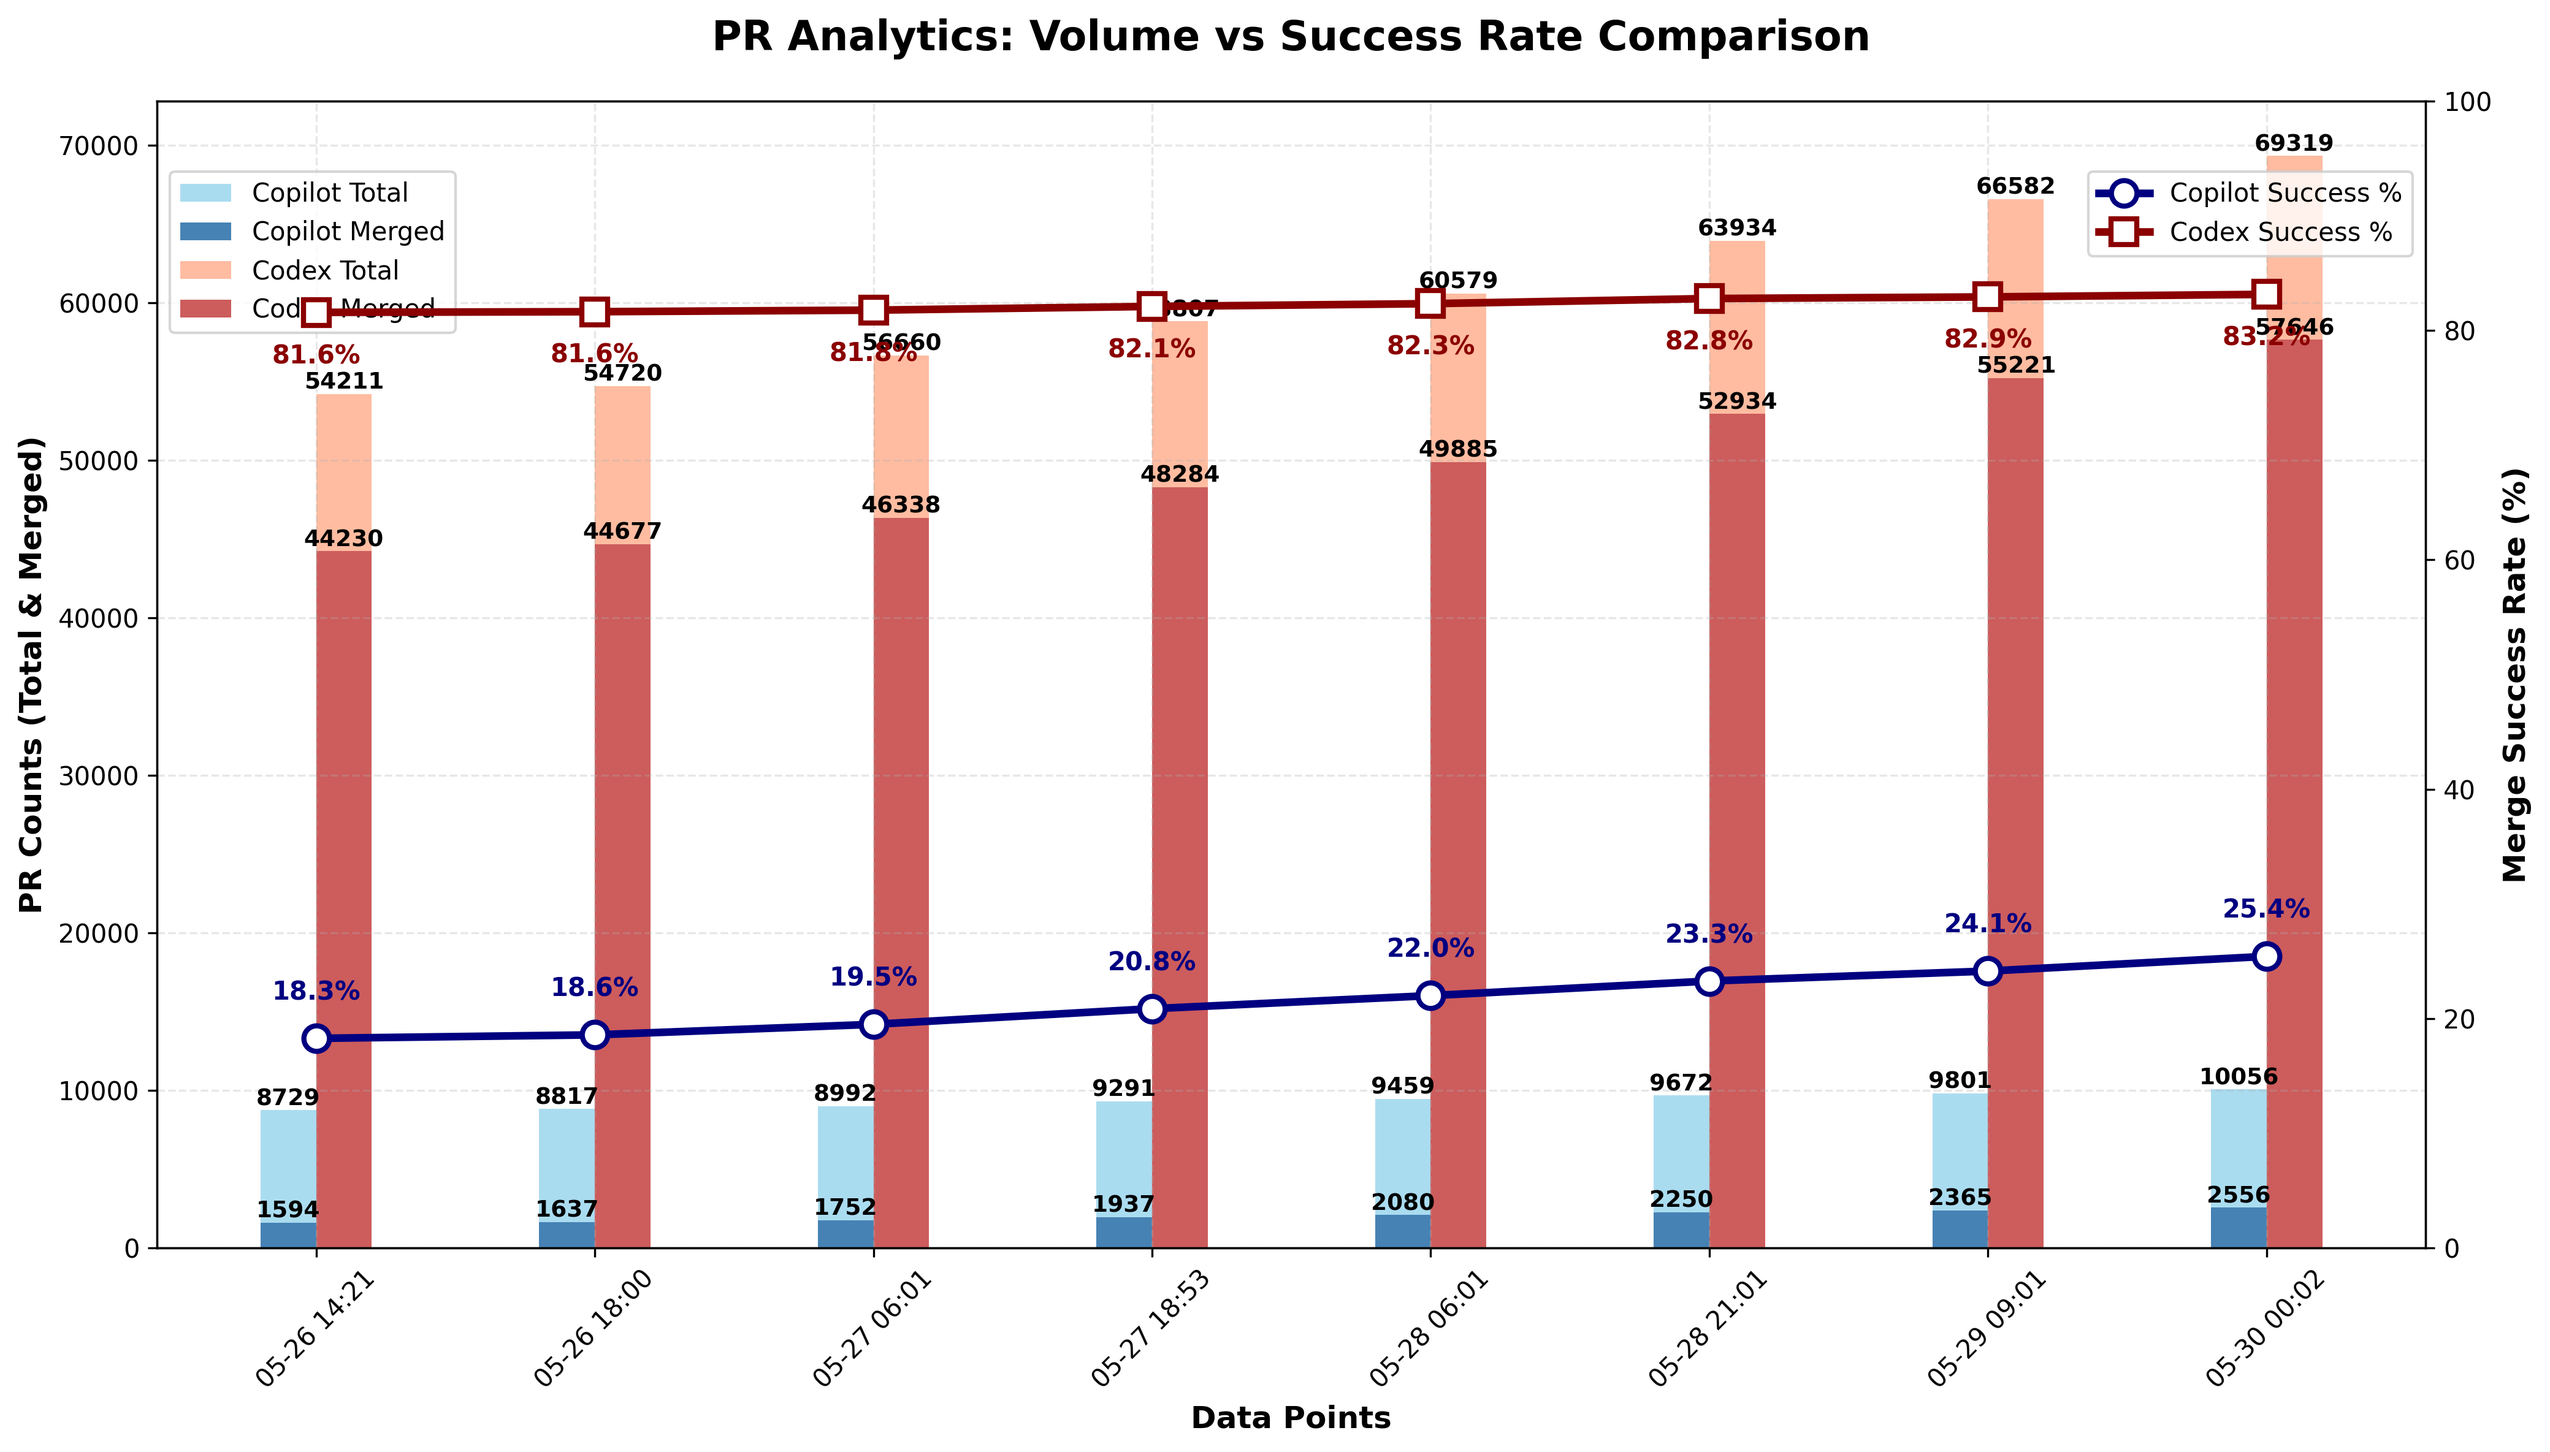
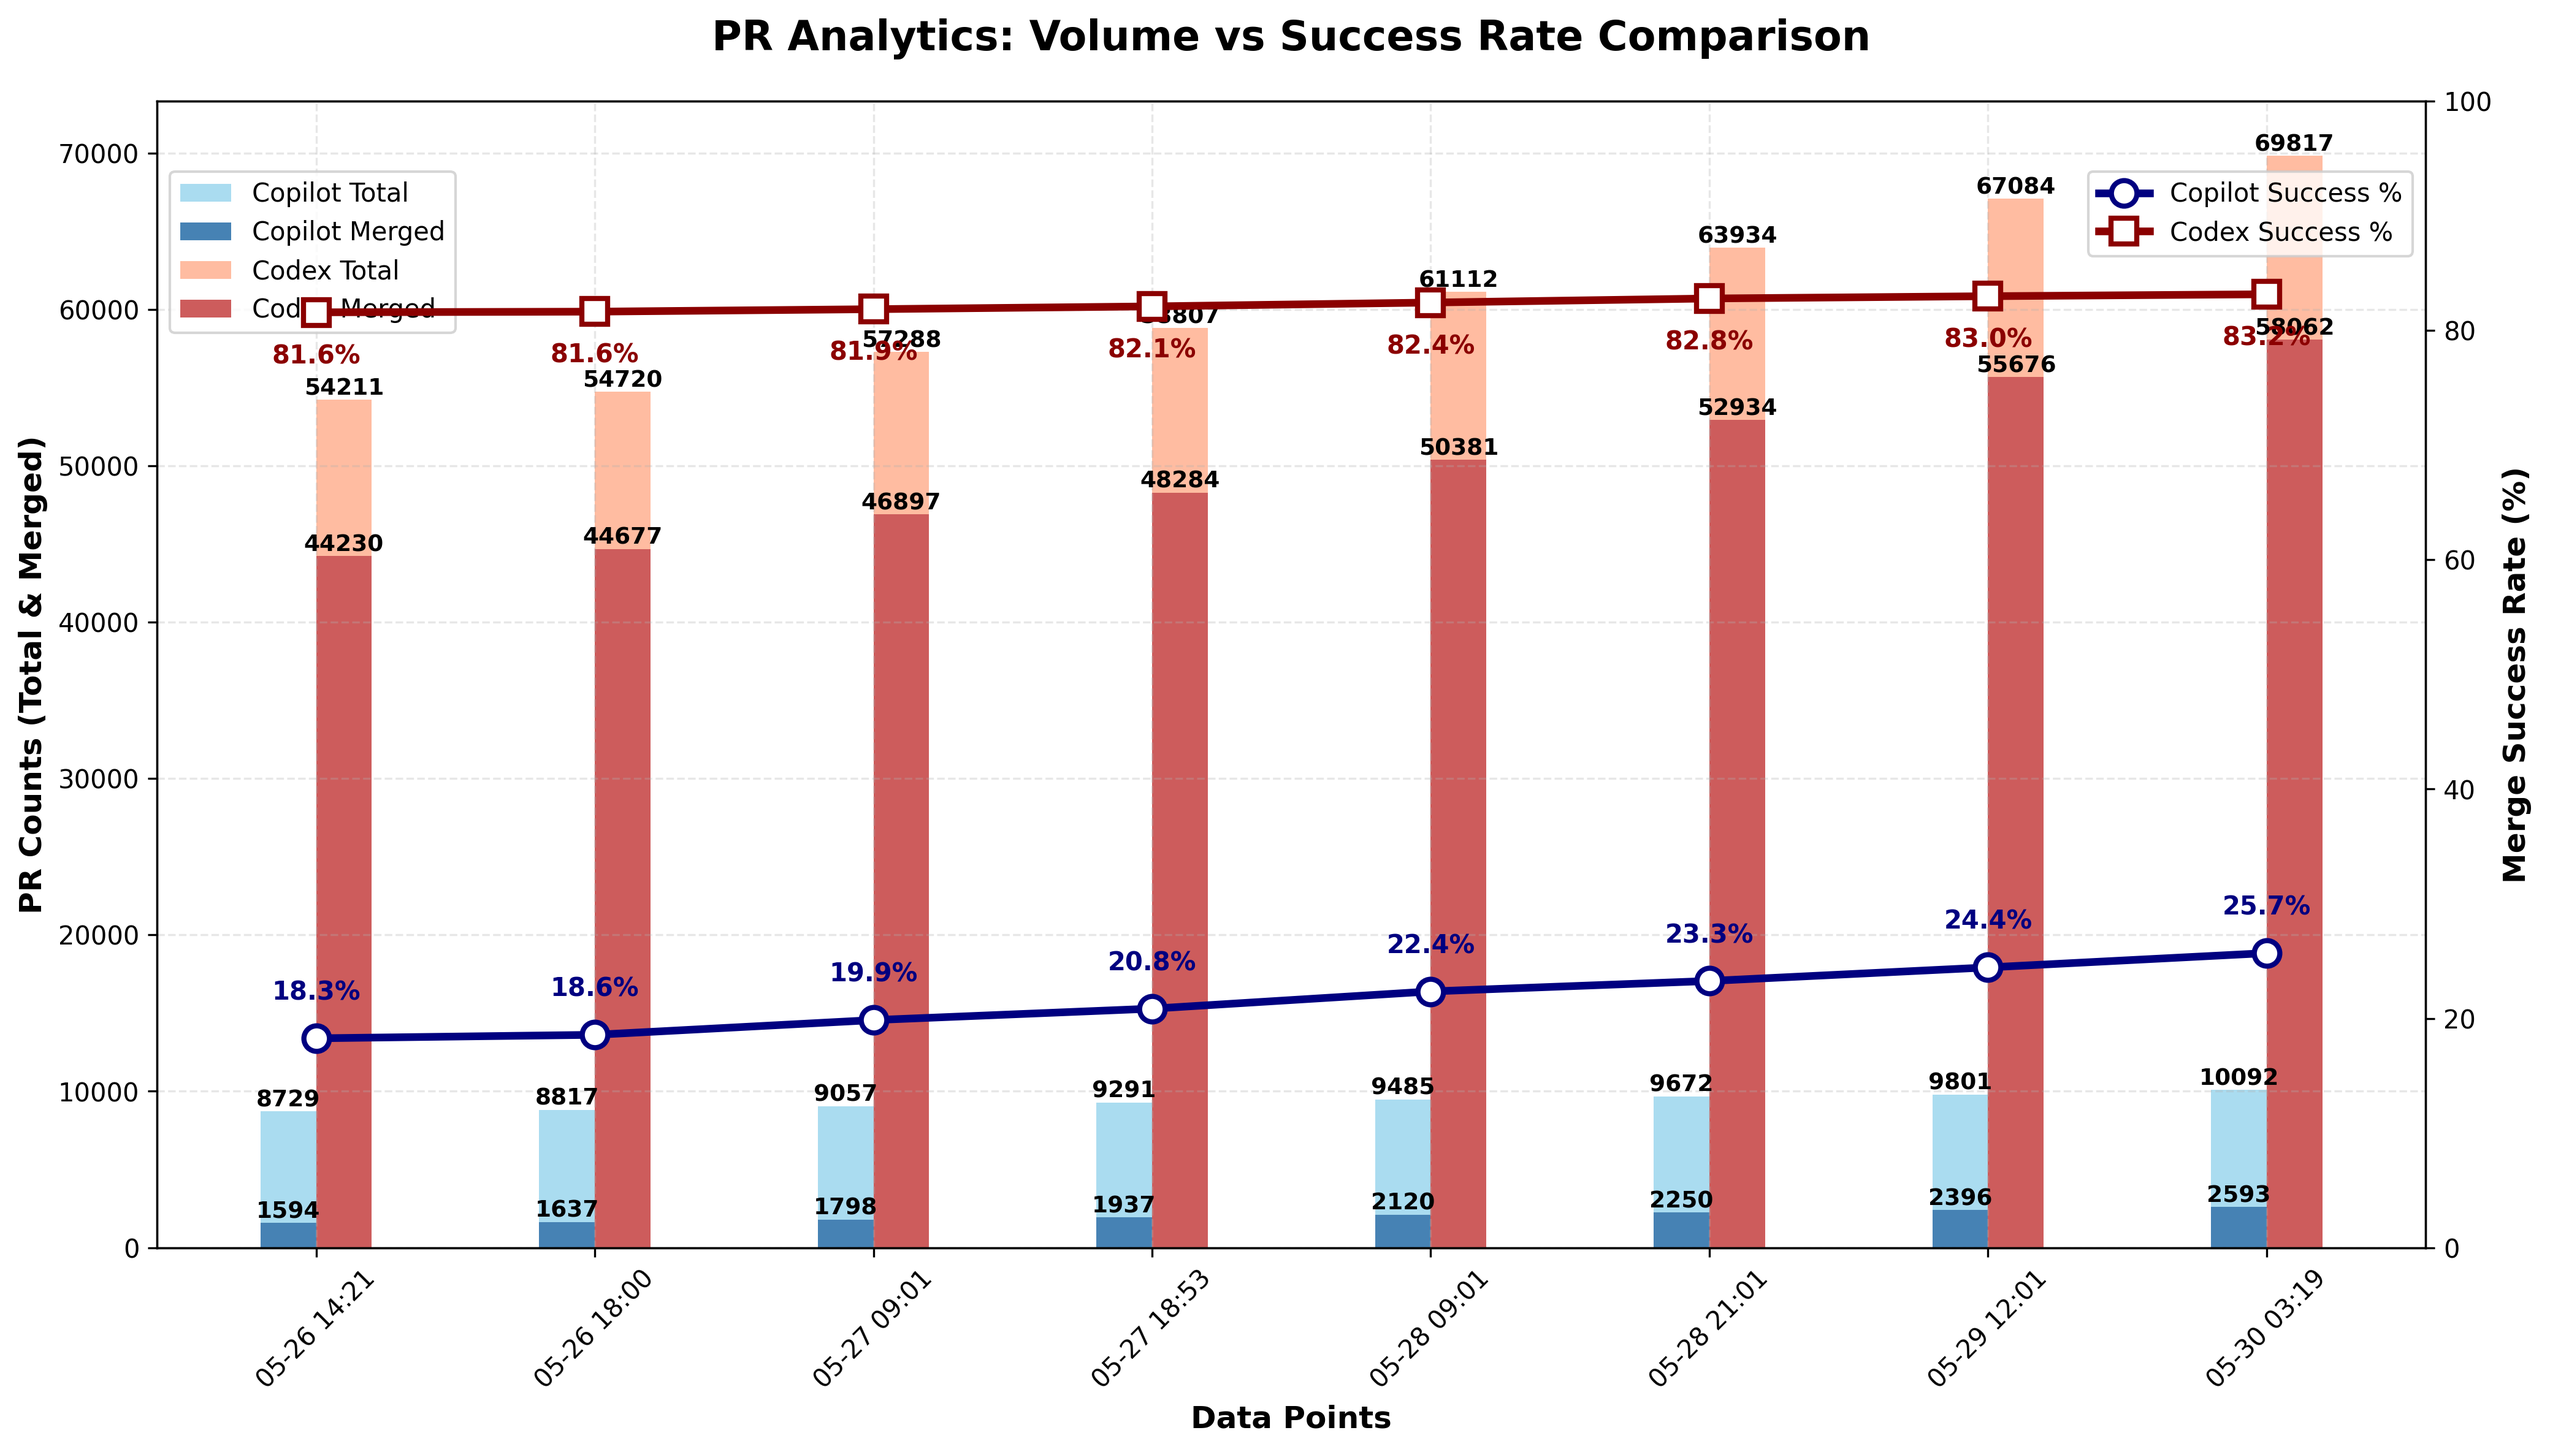
chore: update PR‑approval chart

diff --git a/docs/index.html b/docs/index.html
@@ -44,14 +44,14 @@
                 <tbody>
                     <tr>
                         <td>Copilot</td>
-                        <td>10,056</td>
-                        <td>2,556</td>
-                        <td>25.42%</td>
+                        <td>10,092</td>
+                        <td>2,593</td>
+                        <td>25.69%</td>
                     </tr>
                     <tr>
                         <td>Codex</td>
-                        <td>69,319</td>
-                        <td>57,646</td>
+                        <td>69,817</td>
+                        <td>58,062</td>
                         <td>83.16%</td>
                     </tr>
                 </tbody>
@@ -59,7 +59,7 @@
         </section>
 
         <footer>
-            <p>Last updated: <span id="last-updated">May 30, 2025 00:02 UTC</span></p>
+            <p>Last updated: <span id="last-updated">May 30, 2025 03:19 UTC</span></p>
             <p><a href="https://github.com/aavetis/ai-pr-watcher">View on GitHub</a></p>
         </footer>
     </div>

diff --git a/README.md b/README.md
@@ -19,5 +19,5 @@ Explore the GitHub search queries used:
 
 | Project | Total PRs | Merged PRs | Merge Rate |
 | ------- | --------- | ---------- | ---------- |
-| Copilot | 10,056 | 2,556 | 25.42% |
-| Codex   | 69,319 | 57,646 | 83.16% |
+| Copilot | 10,092 | 2,593 | 25.69% |
+| Codex   | 69,817 | 58,062 | 83.16% |
